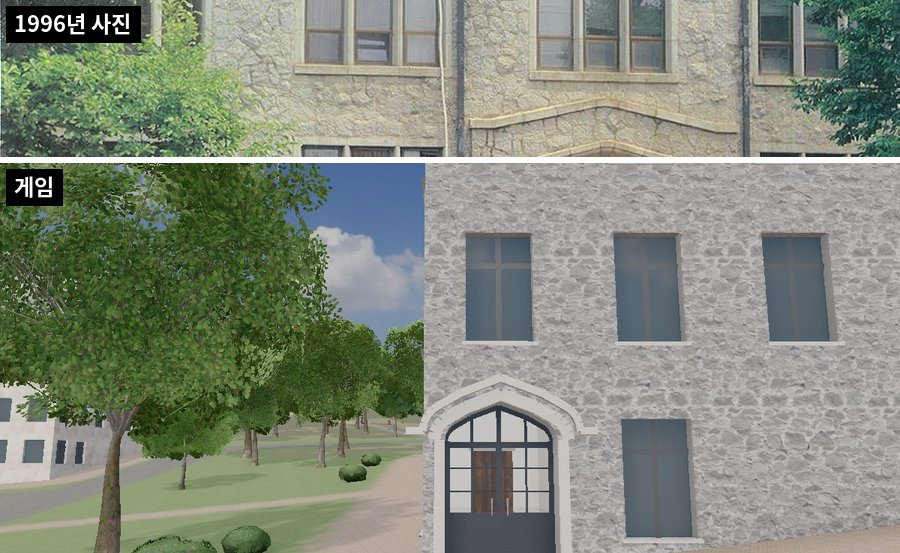
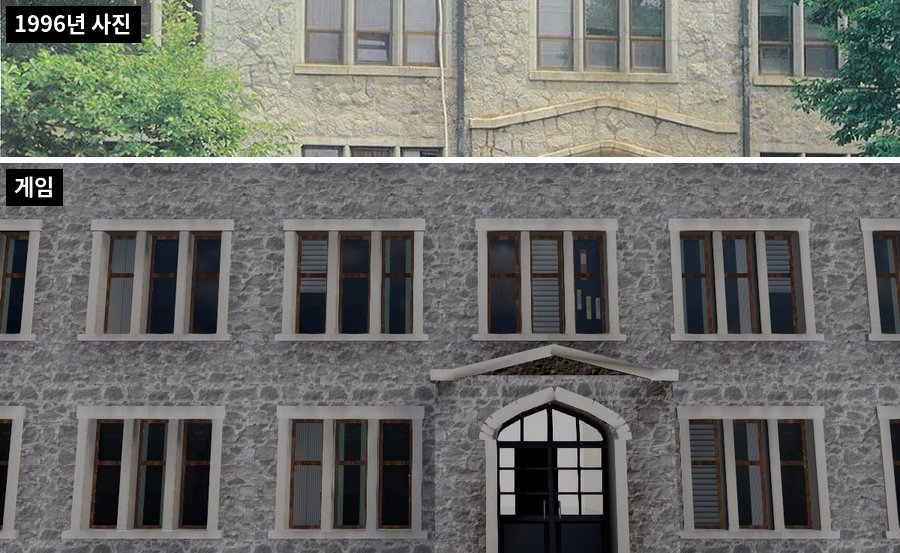
빌링슬리관 현관을 남쪽 정면 가운데로, 창은 돌 창틀에 세 쪽씩
- 현관 자리를 ENTRY_AT 으로 고정: 1994 지도와 OSM 보행로가 닿는 긴
  남쪽 정면의 가운데 칸. 비탈이 정면을 가로질러 문 앞 땅이 1층보다
  1.6 m 높았기에 정면 앞을 1층 바닥 높이로 고름(FORECOURTS)
- 벽 양식 stone_pale(빌링슬리관만 씀): 4.1 m 칸마다 window_group 으로
  세 쪽 창을 한 돌 창틀에 묶음. 창살은 유리와 같은 면에 둠(앞에 두면
  정점 AO 굽기가 유리 모서리를 어둡게 함)
- porch: 아치를 두른 후드 몰딩 대신 벽에서 0.6 m 나온 얕은 현관과
  낮은 박공 갓돌(porch_gable)
- 고증 기록, README 비교 그림(71)과 새 소식 캡처(88)

diff --git a/blender/generic.py b/blender/generic.py
@@ -16,7 +16,8 @@ STYLE = {
     # 의류환경학과 album photo on its front, reference/고증.md)
     'brick':  dict(wall='brick_red', alt='concrete', glass='glass', frame='frame_white', bay=3.0, ww=0.5, sill=0.95, head=0.6, band=False, depth=0.22, mull=1, trim='stone_trim'),
     'tile':   dict(wall='tile_facade', alt='concrete', glass='glass', frame='frame_silver', bay=3.2, ww=0.5, sill=0.95, head=0.6, band=False, depth=0.2, mull=1),
-    'stone_pale': dict(wall='stone_rubble_gray', alt='stone_rubble_gray', glass='glass', frame='frame_dark', bay=3.0, ww=0.45, sill=0.9, head=0.7, band=False, depth=0.3, mull=1, trim='stone_trim'),
+    # (빌링슬리관 only) a group of three tall lights a bay, 4.1 m: window_group; ww is the group's share of the bay
+    'stone_pale': dict(wall='stone_rubble_gray', alt='stone_rubble_gray', glass='glass', frame='wood_dark', bay=4.1, ww=0.62, sill=1.0, head=0.75, band=False, depth=0.3, mull=1, trim='stone_trim', lights=3),
     'city':   dict(wall='brick_red', alt='plaster_cream', glass='glass', frame='frame_silver', bay=3.0, ww=0.5, sill=0.95, head=0.6, band=False, depth=0.15, mull=1),
 }
 FH = {'modern': 3.8, 'white': 3.6, 'stone': 4.2, 'house': 3.4, 'gym': 6.5, 'city': 3.0, 'brick': 3.6, 'tile': 3.4, 'stone_pale': 4.0}
@@ -72,6 +73,9 @@ def wall_edge(mb, a, b, z0, z1, nfloors, fh, st, rnd, skip_windows=False, ground
             if g > zf + sill - 0.15 or (f == 0 and st is STYLE['gym'] and False):
                 mb.quad(P(s0, zf), P(s1, zf), P(s1, zf + fh), P(s0, zf + fh), wall)
                 continue
+            if st.get('lights'):                # three lights in one dressed-stone frame (빌링슬리관)
+                window_group(mb, P, s0, s1, zf, fh, st)
+                continue
             ww = bw * (0.92 if shop else st['ww'])
             w0 = s0 + (bw - ww) / 2
             w1 = w0 + ww
@@ -121,15 +125,16 @@ def wall_edge(mb, a, b, z0, z1, nfloors, fh, st, rnd, skip_windows=False, ground
 # granite flight down to the walk with low granite side walls and steel handrails once it is high (과학관,
 # 백주년기념관); the old stone halls a
 # Tudor-arched door deep in the wall, dark steel-framed glass over a solid lower panel, rubble cheek walls with a pale
-# coping (아펜젤러관, 빌링슬리관 -- whose arch carries a stone hood moulding); the houses a plain door and a step or two.
+# coping (아펜젤러관, 빌링슬리관 -- whose door is in a shallow porch, a bay and a half wide, under a low gable coped with
+# dressed stone); the houses a plain door and a step or two.
 ENTRY = {
     'modern':     dict(kind='glass', w=3.0, h=2.6, top=0.6, canopy=2.2, rec=0.45, step='stone_step', side='stone_granite'),
     'white':      dict(kind='glass', w=2.6, h=2.5, top=0.5, canopy=1.8, rec=0.4, step='stone_step', side='stone_granite'),
     'tile':       dict(kind='glass', w=2.6, h=2.5, top=0.5, canopy=1.6, rec=0.35, step='stone_step', side='stone_granite'),
     'brick':      dict(kind='glass', w=2.4, h=2.5, top=0.5, canopy=1.6, rec=0.4, step='stone_step', side='stone_trim'),
     'gym':        dict(kind='glass', w=3.6, h=2.7, top=0.9, canopy=2.6, rec=0.5, step='stone_step', side='stone_granite'),
-    'stone':      dict(kind='arch', w=1.9, spring=2.35, rec=0.6, step='stone_step', side='stone_rubble', hood=False),
-    'stone_pale': dict(kind='arch', w=2.3, spring=2.5, rec=0.7, step='stone_step', side='stone_rubble', hood=True),
+    'stone':      dict(kind='arch', w=1.9, spring=2.35, rec=0.6, step='stone_step', side='stone_rubble'),
+    'stone_pale': dict(kind='arch', w=2.3, spring=2.5, rec=0.7, step='stone_step', side='stone_rubble', porch=0.6),
     'house':      dict(kind='house', w=1.0, h=2.1, canopy=1.0, rec=0.15, step='concrete', side='concrete'),
 }
 MUSIC_CANOPY = 3.6    # 음악관's canopy: how far it reaches out over the landing
@@ -189,10 +194,63 @@ def lamp5(mb, x, y, z):
 DOORS = []            # world-space zones of the generic halls' flights (merged into web/public/data/entrances.json)
 
 
+def window_group(mb, P, s0, s1, zf, fh, st):
+    """One bay [s0, s1] of a storey of 빌링슬리관's wall (the 1996 album photo, reference/빌링슬리관_현관_1996.jpg; and
+    reference/학교연혁_빌링슬리관_옛생활과학관.jpg): three tall lights side by side in one dressed-stone frame, stone
+    mullions between them, a lintel over them and a sill running on past them, each light a dark wooden sash with a
+    meeting rail."""
+    import landmarks as LM
+    wall, trim, frame, d, n = st['wall'], st.get('trim', 'stone_trim'), st['frame'], st['depth'], st['lights']
+    mw = 0.2                                             # stone mullion
+    gw = (s1 - s0) * st['ww']
+    w0 = (s0 + s1 - gw) / 2
+    w1 = w0 + gw
+    zs, zh = zf + st['sill'], zf + fh - st['head']
+    LM.wall_holes(mb, P, s0, s1, zf, zf + fh, wall, [(w0, w1, zs, zh)])
+    LM.reveal(mb, P, w0, w1, zs, zh, d, trim)
+    lw = (gw - (n - 1) * mw) / n
+    for k in range(1, n):
+        c = w0 + k * (lw + mw) - mw / 2
+        LM.bar(mb, P, c, zs, c, zh, mw, -d, 0.0, trim)
+    fw, zm = 0.08, zs + (zh - zs) * 0.6
+    for k in range(n):
+        a = w0 + k * (lw + mw)
+        b = a + lw
+        # the sash frame in the glass's own plane (one standing in front would shade the glass's corners in the
+        # occlusion bake, blender/bake.py), a room behind each light, the meeting rail across it
+        LM.wall_holes(mb, P, a, b, zs, zh, frame, [(a + fw, b - fw, zs + fw, zh - fw)], d=-d)
+        mb.quad(P(a + fw, zs + fw, -d), P(b - fw, zs + fw, -d), P(b - fw, zh - fw, -d), P(a + fw, zh - fw, -d),
+                st['glass'], panes=(1, 1))
+        mb.quad(P(a + fw, zm - 0.045, -d + 0.04), P(b - fw, zm - 0.045, -d + 0.04), P(b - fw, zm + 0.045, -d + 0.04),
+                P(a + fw, zm + 0.045, -d + 0.04), frame)
+    # the dressed stone standing a little proud of the rubble
+    for s in (w0 - 0.1, w1 + 0.1):
+        LM.bar(mb, P, s, zs, s, zh, 0.2, 0.0, 0.04, trim)
+    LM.bar(mb, P, w0 - 0.24, zh + 0.13, w1 + 0.24, zh + 0.13, 0.26, 0.0, 0.06, trim, ends=True)
+    LM.bar(mb, P, w0 - 0.32, zs - 0.07, w1 + 0.32, zs - 0.07, 0.14, 0.0, 0.12, trim, ends=True)
+
+
+def porch_gable(mb, P, Pw, fa, fb, sc, zb, zw, zg, proj, s0, s1, zt, wall):
+    """빌링슬리관's porch over [fa, fb] (P: its face, proj m out from the hall's wall Pw): the low gable over its face, the
+    dressed-stone coping along it that turns level at the ends and roofs the porch back to the wall, its sides, and the
+    hall's wall from the eaves zw up to the storey's top zt"""
+    import landmarks as LM
+    k = 0.35                                     # the level returns of the coping at the eaves
+    mb.face([P(fa + k, zw), P(fb - k, zw), P(sc, zg)], wall)
+    m, ex = (zg - zw) / (sc - fa - k), 0.05      # (the slopes run on a little past the apex, closing the joint)
+    for sa, za, sb, zb_, ends in ((fa - 0.1, zw, fa + k + 0.1, zw, True), (fa + k, zw, sc + ex, zg + m * ex, False),
+                                  (sc - ex, zg + m * ex, fb - k, zw, False), (fb - k - 0.1, zw, fb + 0.1, zw, True)):
+        LM.bar(mb, P, sa, za, sb, zb_, 0.22, -proj, 0.08, 'stone_trim', ends=ends)
+    mb.quad(P(fa, zb, -proj), P(fa, zb, 0), P(fa, zw, 0), P(fa, zw, -proj), wall)          # sides
+    mb.quad(P(fb, zb, 0), P(fb, zb, -proj), P(fb, zw, -proj), P(fb, zw, 0), wall)
+    if zw < zt:
+        LM.flat_wall(mb, Pw, s0, s1, zw, zt, wall)
+
+
 def porch(mb, a, b, s0, s1, zf, fh, st, style, opts=None):
     """Fill the ground-floor bay [s0, s1] of the wall a->b with the hall's front door: the wall round a recessed
-    opening, its glazing and a lit hall behind it (the shells have no rooms), a canopy or stone hood, and the flight
-    down to the ground in front (walkable, landmarks.stair_flight)."""
+    opening, its glazing and a lit hall behind it (the shells have no rooms), a canopy (or 빌링슬리관's gabled porch),
+    and the flight down to the ground in front (walkable, landmarks.stair_flight)."""
     import landmarks as LM
     opts = opts or {}
     E = dict(ENTRY[style])
@@ -206,6 +264,14 @@ def porch(mb, a, b, s0, s1, zf, fh, st, style, opts=None):
     w = min(E['w'], s1 - s0 - 0.5)
     o0, o1 = sc - w / 2, sc + w / 2
     zt = zf + fh
+    fa, fb, zb = s0, s1, zf                     # the face the door is in
+    proj = E.get('porch', 0.0)
+    if proj:
+        # 빌링슬리관 (the 1996 album photo): the door is in a porch standing out from the wall, wider than the bay by
+        # half a pier each side; the door, its flight and the dressed stone go on the porch's face
+        Pw = P
+        P = lambda s, z, d=0.0: Pw(s, z, d + proj)
+        fa, fb, zb = s0 - 0.3, s1 + 0.3, zf - 1.0
     g = max(ground(*P(sc + u, 0, k)[:2]) for u in (-w / 2, 0.0, w / 2) for k in (0.6, 1.6))
     zd = max(zf + 0.12, g + (0.16 if style == 'house' else 0.32))     # threshold: a riser or two over the ground
     if E['kind'] == 'arch':
@@ -220,29 +286,30 @@ def porch(mb, a, b, s0, s1, zf, fh, st, style, opts=None):
         zd = min(zd, zt - 0.25 - 2.15 - top)
         zo = zd + min(E['h'], zt - 0.25 - zd - top) + top
     rec = E['rec']
+    zw = zt                                     # the top of the face round the door
+    if proj:
+        # the porch's gable: its eaves over the arch's dressed stone, its apex under the sill of the window above
+        zw = zo + 0.5
+        zg = max(zw + 0.15, min(zw + 0.25 * ((fb - fa) / 2 - 0.35), zt + st['sill'] - 0.35))
     # wall round the opening, and the reveals
-    LM.flat_wall(mb, P, s0, o0, zf, zt, wall)
-    LM.flat_wall(mb, P, o1, s1, zf, zt, wall)
-    LM.flat_wall(mb, P, o0, o1, zf, zd, wall)
+    LM.flat_wall(mb, P, fa, o0, zb, zw, wall)
+    LM.flat_wall(mb, P, o1, fb, zb, zw, wall)
+    LM.flat_wall(mb, P, o0, o1, zb, zd, wall)
     rv = st.get('trim', wall) if E['kind'] != 'glass' else 'concrete'
     if E['kind'] == 'arch':
-        LM.arch_fill(mb, P, o0, o1, zs, zt, rec, wall, 'tudor', 14, intrados_mat='stone_trim')
+        LM.arch_fill(mb, P, o0, o1, zs, zw, rec, wall, 'tudor', 14, intrados_mat='stone_trim')
         for s, sg in ((o0, 1), (o1, -1)):
             q = [P(s, zd, 0), P(s, zd, -rec), P(s, zs, -rec), P(s, zs, 0)]
             mb.face(q if sg < 0 else q[::-1], 'stone_trim')
         LM.glazed_door(mb, P, o0, o1, zd, zs, 'tudor', -rec, style='panel')
-        # dressed stone round the arch (and, on 빌링슬리관, the hood moulding over it)
+        # dressed stone round the arch
         pts = LM.arch_points(o0 - 0.22, o1 + 0.22, zs, 'tudor', 14)
-        for (sa, za), (sb, zb) in zip(pts, pts[1:]):
-            LM.bar(mb, P, sa, za, sb, zb, 0.26, 0.0, 0.05, 'stone_trim')
+        for (sa, za), (sb, zb_) in zip(pts, pts[1:]):
+            LM.bar(mb, P, sa, za, sb, zb_, 0.26, 0.0, 0.05, 'stone_trim')
         for s in (o0 - 0.11, o1 + 0.11):
             LM.bar(mb, P, s, zd, s, zs, 0.22, 0.0, 0.05, 'stone_trim')
-        if E['hood']:
-            hp = LM.arch_points(o0 - 0.45, o1 + 0.45, zs + 0.05, 'tudor', 14)
-            for (sa, za), (sb, zb) in zip(hp, hp[1:]):
-                LM.bar(mb, P, sa, za + 0.12, sb, zb + 0.12, 0.16, 0.0, 0.16, 'stone_trim', ends=True)
-            for s, sg in ((o0 - 0.45, -1), (o1 + 0.45, 1)):                 # label stops
-                LM.bar(mb, P, s, zs + 0.17, s + sg * 0.35, zs + 0.17, 0.16, 0.0, 0.16, 'stone_trim', ends=True)
+        if proj:
+            porch_gable(mb, P, Pw, fa, fb, sc, zb, zw, zg, proj, s0, s1, zt, wall)
         LM.vestibule(mb, P, o0, o1, zd, zo + 0.05, -rec - 0.03, 2.4, lights=1)
     else:
         mb.quad(P(o0, zo, 0), P(o1, zo, 0), P(o1, zt, 0), P(o0, zt, 0), wall)

diff --git a/tools/build_campus.py b/tools/build_campus.py
@@ -426,6 +426,14 @@ SCI_T = np.array([-SCI_N[1], SCI_N[0]])
 _sf = SCI_DOOR + SCI_N * 1.6                         # the head of the flight (the plaza runs in under it)
 FORECOURTS.append((222843398, None, 20.0, dict(face=(tuple(_sf - SCI_T * 8.8), tuple(_sf + SCI_T * 8.8)), max_half=8.8,
                                                 blend=8.0, side_blend=3.0, level=58.9, inside=0.0)))
+# 빌링슬리관's south front (its door: ENTRY_AT).  The 5 m grid ran the slope from the north-west across it, 3.7 m
+# along the 45 m front, so the door in its middle stood 1.6 m under the ground and the west half of the ground floor
+# was buried.  reference/학교연혁_빌링슬리관_옛생활과학관.jpg, from the lawn at the west end, shows the ground floor
+# standing on a level lawn all along the front: level it at the floor (its south-east corner), a riser or two under
+# the threshold, banking back up into the hill at the west end.
+BILL_FRONT = ((14.11, 417.87), (57.73, 406.29))      # the south front, west -> east (the outside to the right)
+FORECOURTS.append((245623193, None, 12.0, dict(face=BILL_FRONT, max_half=23.0, blend=10.0, side_blend=9.0,
+                                                level=68.85, inside=2.0)))
 
 
 def level_forecourt(wid, front, depth, blend=18.0, side_blend=7.0, max_half=20.0, level=None, face=None, inside=2.0):
@@ -1386,8 +1394,14 @@ ENTRY_STYLES = ('modern', 'white', 'stone', 'brick', 'tile', 'stone_pale', 'gym'
 # Its flight is as wide as the photos (16 m: fifteen risers down to the levelled car park, FORECOURTS), with the
 # five-globe lamp at its head.  음악관 (기악과's photo): a deep canopy on two round white columns over four bays of
 # aluminium-framed glass, white tile walls and tiled planters either side of three granite steps, blue window frames.
+# 빌링슬리관: in the middle of its long south front, under a window group (the 1996 album photo of 의류환경학과:
+# the arched door between equal piers, a group of three lights over it).  The 1994 campus map draws the arched door
+# there, in the middle between the gabled end bays with a walk running south from it; and OSM's footway from the south
+# ends there too, 22.6 m along the 45.1 m front (the door had gone to the short east end, the slope having buried this
+# front: FORECOURTS).
 ENTRY_AT = {222843398: ((-242.7, 13.8), dict(span=3, canopy=3.0, stair_w=16.0, lamp5=True, floor=2)),
-            429077789: ((144.08, -11.73), dict(span=2, music=True))}
+            429077789: ((144.08, -11.73), dict(span=2, music=True)),
+            245623193: ((35.93, 412.08), dict(floor=0))}
 _walks = [LineString(p_['pts']) for p_ in paths_out if len(p_['pts']) > 1] + [bline]
 _walk_u = unary_union(_walks)
 _bp_all = [Polygon(b_['footprint']) for b_ in buildings]

diff --git a/README.md b/README.md
@@ -26,7 +26,7 @@
 | ![아펜젤러관: 2016년 사진(위)과 게임(아래)](docs/screenshots/67_cmp_appenzeller.jpg)<br>**아펜젤러관** · 2016년 | ![연희관: 2023년 사진(위)과 게임의 10월(아래)](docs/screenshots/68_cmp_yeonhui.jpg)<br>**연희관** · 2023년 가을 |
 | ![대우관: 사진(위)과 게임(아래)](docs/screenshots/69_cmp_daewoo.jpg)<br>**대우관** (1996년 준공) | ![대우관 상뜰: 사진(위)과 게임(아래)](docs/screenshots/57_sang.jpg)<br>**대우관 상뜰** |
 | ![광복관 현관: 1996년 사진(위)과 게임(아래)](docs/screenshots/70_cmp_kwangbok.jpg)<br>**광복관** 현관 · 1996년 | ![과학관 앞 높은 계단: 1996년 사진(위)과 게임(아래)](docs/screenshots/54_science_stairs.jpg)<br>**과학관** 앞 계단 · 1996년 |
-| ![음악관 현관: 1996년 사진(위)과 게임(아래)](docs/screenshots/53_music_door.jpg)<br>**음악관** 현관 · 1996년 | ![빌링슬리관 현관: 1996년 사진(위)과 게임(아래)](docs/screenshots/71_cmp_billingsley.jpg)<br>**빌링슬리관** 현관 · 1996년. 게임의 현관 자리는 다름 ([#30](https://github.com/yonsei-reunion/campus-1997/issues/30)) |
+| ![음악관 현관: 1996년 사진(위)과 게임(아래)](docs/screenshots/53_music_door.jpg)<br>**음악관** 현관 · 1996년 | ![빌링슬리관 현관: 1996년 사진(위)과 게임(아래)](docs/screenshots/71_cmp_billingsley.jpg)<br>**빌링슬리관** 현관 · 1996년 |
 | ![용재관: 사진(왼쪽)과 게임(오른쪽)](docs/screenshots/72_cmp_yongjae.jpg)<br>**용재관** (1957 – 2013, 지금 경영관 자리) | ![옛 노천극장: 1997년 사진(위)과 게임(아래)](docs/screenshots/73_cmp_amphitheater.jpg)<br>**옛 노천극장** · 1997년 |
 | ![활천대: 2009년 사진(왼쪽)과 같은 자리에서 본 게임(오른쪽)](docs/screenshots/34_hwalcheon_2009.jpg)<br>**활천대** · 2009년, 독수리상 옆의 옛 자리 | ![백양로 가운데 초소: 1997년 사진(왼쪽)과 같은 카메라의 게임(오른쪽)](docs/screenshots/44_guard_booth_1997.jpg)<br>**백양로 초소** · 1997년 |
 
